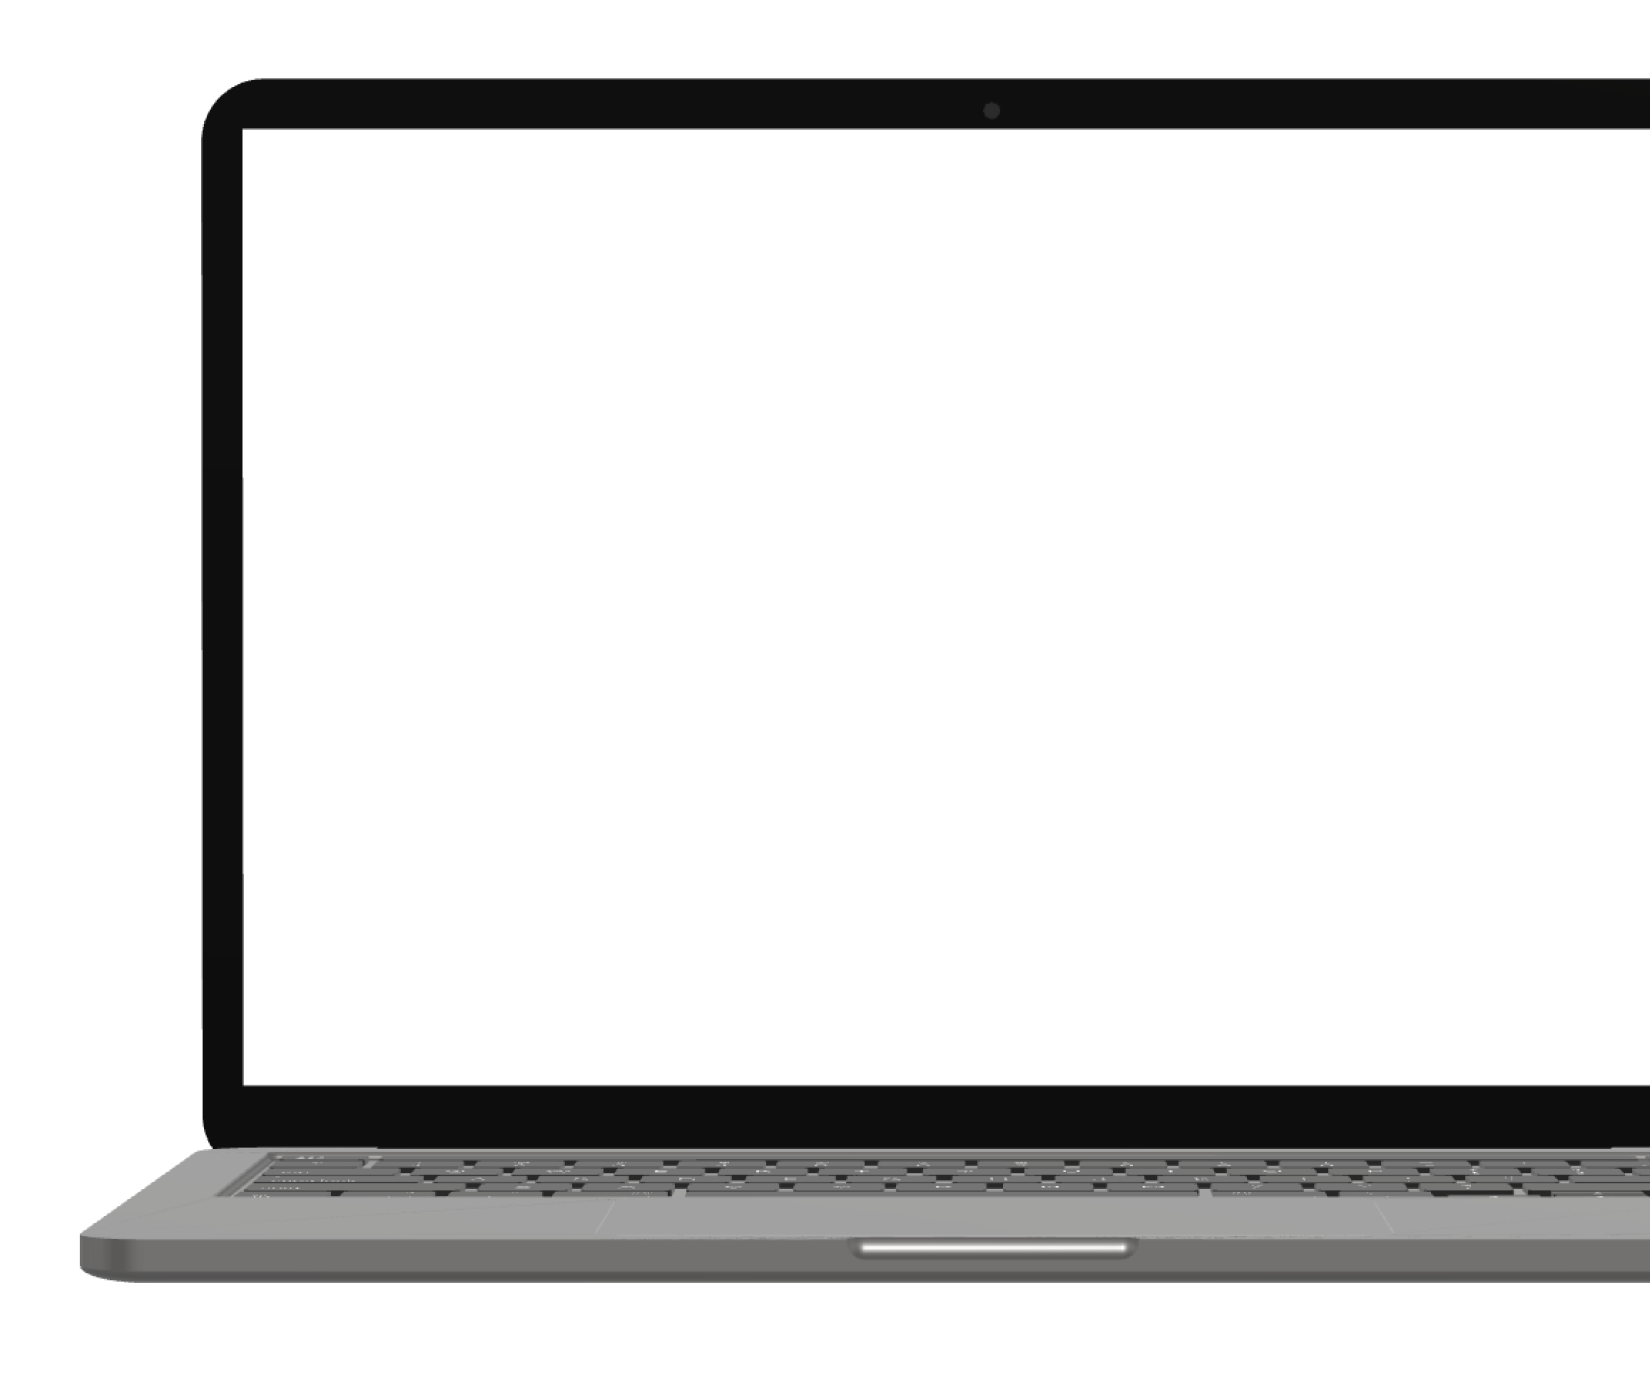
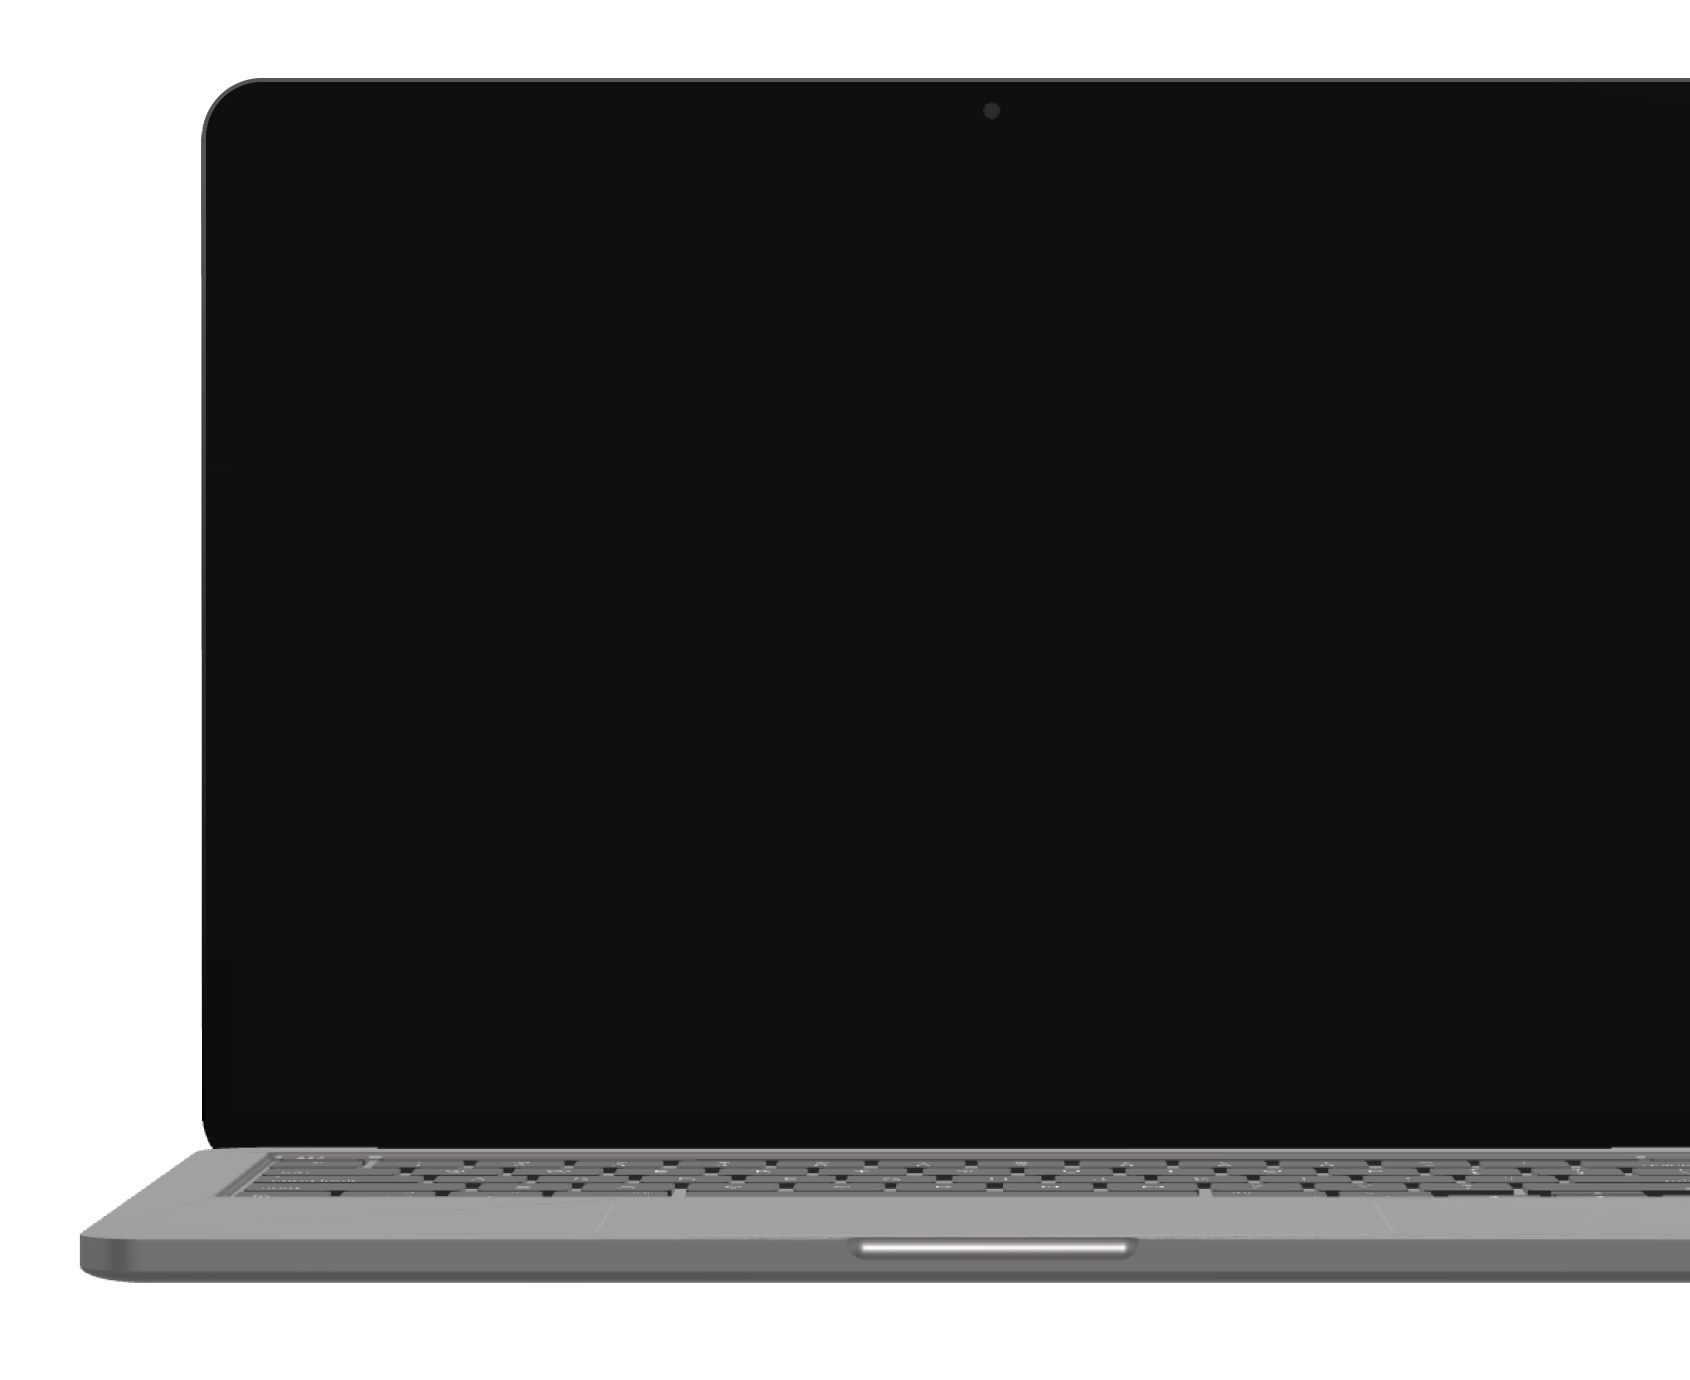
nav rhover state, laptop image improvement, padding fixes (#1290)

diff --git a/app/assets/src/components/views/landing_page/Hero.scss b/app/assets/src/components/views/landing_page/Hero.scss
@@ -30,8 +30,10 @@
     background-position: center 100%;
   }
 
-  @media (max-width: 350px) {
+  @media (max-width: 450px) {
     background-size: contain;
+    background-position: center 102%;
+    height: 485px
   }
 
   h1 {
@@ -45,7 +47,8 @@
     }
 
     @media (max-width: 768px) {
-      @include font-header-marketing-l;
+      @include font-header-xxl;
+      line-height: 44px;
     }
   }
 
@@ -56,7 +59,8 @@
     @include font-body-m;
 
     @media (max-width: 768px) {
-      @include font-body-xs;
+      @include font-body-s;
+      line-height: 23px;
     }
   }
 }

diff --git a/app/assets/src/components/views/landing_page/LandingHeaderV2.scss b/app/assets/src/components/views/landing_page/LandingHeaderV2.scss
@@ -22,6 +22,7 @@
   padding: 7px 14px;
   margin: 0 5px;
   @include font-body-xs;
+  font-weight: $font-weight-semibold;
 }
 
 .buttonLink {
@@ -33,6 +34,11 @@
 
   @media (max-width: 768px) {
     width: 112px;
+  }
+
+  &:hover {
+    background: $white;
+    color: $black !important;
   }
 }
 

diff --git a/app/assets/src/components/views/landing_page/Content.jsx b/app/assets/src/components/views/landing_page/Content.jsx
@@ -50,7 +50,7 @@ const Content = () => {
       </section>
 
       <style dangerouslySetInnerHTML={{__html: `
-        .slick-dots{position:absolute;bottom:-25px;display:block;width:100%;padding:0;margin:0;list-style:none;text-align:center}.slick-dots li{position:relative;display:inline-block;width:20px;height:20px;padding:0;cursor:pointer;margin:0!important;}.slick-dots li button{font-size:0;line-height:0;display:block;width:20px;height:20px;padding:5px;cursor:pointer;color:transparent;border:0;outline:0;background:0 0}.slick-dots li button:focus,.slick-dots li button:hover{outline:0}.slick-dots li button:focus:before,.slick-dots li button:hover:before{opacity:1!important;color:#fff!important}.slick-dots li button:before{font-family:slick;font-size:10px!important;line-height:20px;position:absolute;top:0;left:0;width:20px;height:20px;content:'•';text-align:center;opacity:.4!important;color:#000!important;-webkit-font-smoothing:antialiased;-moz-osx-font-smoothing:grayscale}.slick-dots li.slick-active button:before{opacity:1!important;color:#fff!important}
+        .slick-dots{position:absolute;bottom:15px;display:block;width:100%;padding:0;margin:0;list-style:none;text-align:center}@media (max-width:768px){.slick-dots{bottom:12px}}.slick-dots li{position:relative;display:inline-block;width:20px;height:20px;padding:0;cursor:pointer;margin:0!important}.slick-dots li button{font-size:0;line-height:0;display:block;width:20px;height:20px;padding:5px;cursor:pointer;color:transparent;border:0;outline:0;background:0 0}.slick-dots li button:focus,.slick-dots li button:hover{outline:0}.slick-dots li button:focus:before,.slick-dots li button:hover:before{opacity:1!important;color:#fff!important}.slick-dots li button:before{font-family:slick;font-size:10px!important;line-height:20px;position:absolute;top:0;left:0;width:20px;height:20px;content:"•";text-align:center;opacity:.4!important;color:#000!important;-webkit-font-smoothing:antialiased;-moz-osx-font-smoothing:grayscale}.slick-dots li.slick-active button:before{opacity:1!important;color:#fff!important}
       `}} />
       <QuoteSlider />
 

diff --git a/app/assets/src/components/views/landing_page/LaptopRotator.jsx b/app/assets/src/components/views/landing_page/LaptopRotator.jsx
@@ -21,7 +21,7 @@ const LaptopRotator = () => {
     prevArrow: false,
     nextArrow: false,
     autoplay: true,
-    autoplaySpeed: 5000,
+    autoplaySpeed: 4500,
   };
 
   return (

diff --git a/app/assets/src/components/views/landing_page/QuoteSliderItem.scss b/app/assets/src/components/views/landing_page/QuoteSliderItem.scss
@@ -18,7 +18,7 @@
 
   @media (max-width: 768px) {
     @include font-header-m;
-    padding: 3rem;
+    padding: 5rem;
   }
 
   p {

diff --git a/app/assets/src/components/views/landing_page/Content.scss b/app/assets/src/components/views/landing_page/Content.scss
@@ -192,7 +192,6 @@
 }
 
 .tabbedGallery {
-  margin-top: 5rem;
   display: flex;
   justify-content: center;
 }